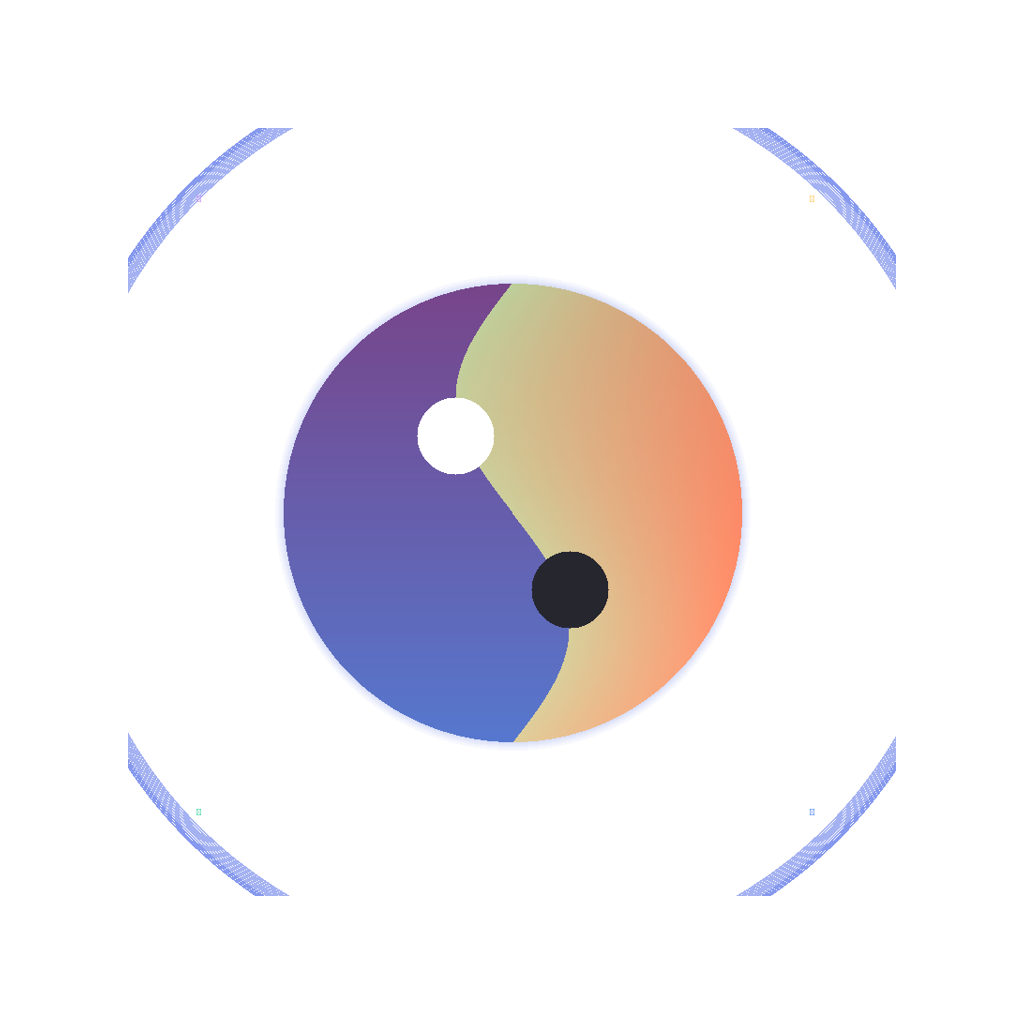
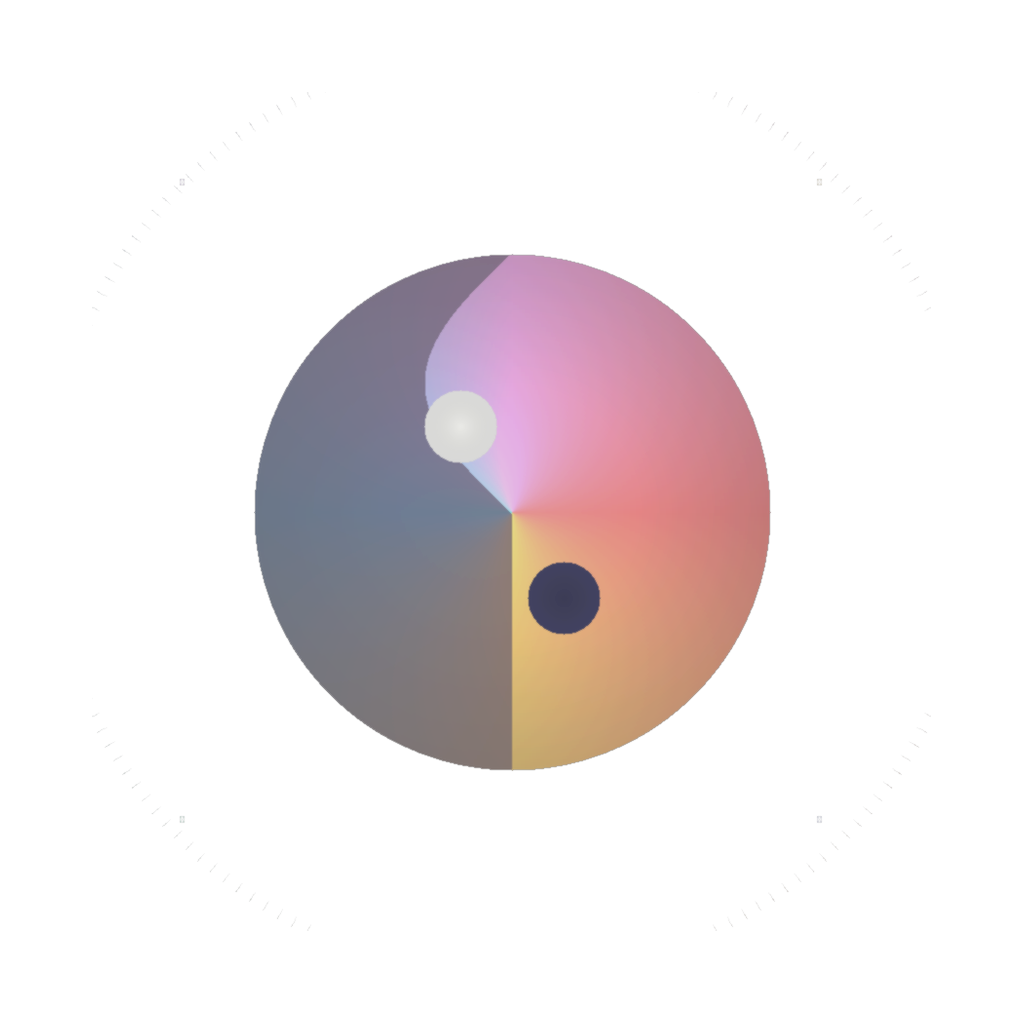
v14: 充值弹窗+配额栏充值按钮+流运全信息+新图标

diff --git a/src/components/PaymentModal.js b/src/components/PaymentModal.js
@@ -1,0 +1,157 @@
+// 充值弹窗 — 套餐选择 + 支付宝支付
+import React, { useState, useEffect } from 'react';
+import { View, Text, TouchableOpacity, Modal, StyleSheet, Platform, Linking } from 'react-native';
+import { colors } from '../theme';
+import { api } from '../api';
+
+const PACKAGES = {
+  count: [
+    { id: 'count_1',  name: '1次包',   price: 1.00,  unit: '次',  quantity: 1    },
+    { id: 'count_30', name: '30次包',  price: 10.00, unit: '次',  quantity: 30   },
+  ],
+  token: [
+    { id: 'token_1m',  name: '100万包',   price: 30.00,  unit: 'Token', quantity: 1000000  },
+    { id: 'token_10m', name: '1000万包',  price: 100.00, unit: 'Token', quantity: 10000000 },
+  ],
+};
+
+export default function PaymentModal({ visible, onClose, onSuccess }) {
+  const [tab, setTab] = useState('count');
+  const [paying, setPaying] = useState(false);
+  const [payUrl, setPayUrl] = useState('');
+
+  async function handlePay(pkgId) {
+    setPaying(true);
+    try {
+      const data = await api.createOrder(pkgId);
+      if (data.payHtml) {
+        // 支付宝返回HTML表单，在APP中需要跳转到浏览器支付
+        // 提取 form action URL
+        const match = data.payHtml.match(/action="([^"]+)"/);
+        if (match) {
+          const url = match[1].replace(/&amp;/g, '&');
+          setPayUrl(url);
+          // 打开系统浏览器进行支付
+          Linking.openURL(url).catch(() => {
+            alert('请手动在浏览器中打开 eszf.com.cn 完成支付');
+          });
+        }
+      }
+      alert('✅ 订单已创建！请在支付宝中完成支付。\n支付成功后返回APP刷新即可看到配额更新。');
+      onSuccess && onSuccess();
+      onClose();
+    } catch (e) {
+      alert('创建订单失败：' + e.message);
+    } finally {
+      setPaying(false);
+    }
+  }
+
+  return (
+    <Modal visible={visible} transparent animationType="slide" onRequestClose={onClose}>
+      <View style={styles.overlay}>
+        <View style={styles.box}>
+          {/* 顶部 */}
+          <View style={styles.header}>
+            <Text style={styles.title}>💰 选择套餐</Text>
+            <TouchableOpacity onPress={onClose}>
+              <Text style={styles.closeBtn}>&times;</Text>
+            </TouchableOpacity>
+          </View>
+
+          {/* Tabs */}
+          <View style={styles.tabs}>
+            <TouchableOpacity
+              style={[styles.tab, tab === 'count' && styles.tabActive]}
+              onPress={() => setTab('count')}
+            >
+              <Text style={[styles.tabText, tab === 'count' && styles.tabTextActive]}>📦 按次</Text>
+            </TouchableOpacity>
+            <TouchableOpacity
+              style={[styles.tab, tab === 'token' && styles.tabActive]}
+              onPress={() => setTab('token')}
+            >
+              <Text style={[styles.tabText, tab === 'token' && styles.tabTextActive]}>⚡ Token</Text>
+            </TouchableOpacity>
+          </View>
+
+          {/* 套餐列表 */}
+          <View style={styles.pkgList}>
+            {PACKAGES[tab].map(pkg => (
+              <TouchableOpacity
+                key={pkg.id}
+                style={styles.pkgCard}
+                onPress={() => handlePay(pkg.id)}
+                disabled={paying}
+              >
+                <View>
+                  <Text style={styles.pkgName}>{pkg.name}</Text>
+                  <Text style={styles.pkgUnit}>{pkg.quantity.toLocaleString()} {pkg.unit}</Text>
+                </View>
+                <View style={styles.pkgRight}>
+                  <Text style={styles.pkgPrice}>¥{pkg.price.toFixed(2)}</Text>
+                  {paying ? (
+                    <Text style={styles.pkgPaying}>处理中...</Text>
+                  ) : (
+                    <Text style={styles.pkgBuy}>购买</Text>
+                  )}
+                </View>
+              </TouchableOpacity>
+            ))}
+          </View>
+
+          {/* 底部 */}
+          <View style={styles.footer}>
+            <TouchableOpacity onPress={onClose}>
+              <Text style={styles.footerLink}>暂不充值，继续免费使用</Text>
+            </TouchableOpacity>
+          </View>
+        </View>
+      </View>
+    </Modal>
+  );
+}
+
+const styles = StyleSheet.create({
+  overlay: {
+    flex: 1, justifyContent: 'flex-end',
+    backgroundColor: 'rgba(0,0,0,0.6)',
+  },
+  box: {
+    backgroundColor: colors.card,
+    borderTopLeftRadius: 20, borderTopRightRadius: 20,
+    paddingBottom: Platform.OS === 'ios' ? 34 : 20,
+    maxHeight: '75%',
+  },
+  header: {
+    flexDirection: 'row', justifyContent: 'space-between', alignItems: 'center',
+    paddingHorizontal: 20, paddingVertical: 16,
+    borderBottomWidth: 1, borderBottomColor: colors.border,
+  },
+  title: { fontSize: 18, fontWeight: '700', color: colors.text },
+  closeBtn: { fontSize: 24, color: colors.textMuted, padding: 4 },
+  tabs: {
+    flexDirection: 'row', marginHorizontal: 20, marginTop: 16,
+    borderRadius: 10, overflow: 'hidden',
+    borderWidth: 1, borderColor: colors.border,
+  },
+  tab: { flex: 1, paddingVertical: 10, alignItems: 'center', backgroundColor: colors.inputBg },
+  tabActive: { backgroundColor: colors.primary + '30' },
+  tabText: { fontSize: 14, color: colors.textDim, fontWeight: '500' },
+  tabTextActive: { color: colors.primary, fontWeight: '700' },
+  pkgList: { paddingHorizontal: 20, paddingTop: 12 },
+  pkgCard: {
+    flexDirection: 'row', justifyContent: 'space-between', alignItems: 'center',
+    backgroundColor: colors.inputBg, borderRadius: 12,
+    padding: 16, marginBottom: 10,
+    borderWidth: 1, borderColor: colors.border,
+  },
+  pkgName: { fontSize: 15, fontWeight: '600', color: colors.text },
+  pkgUnit: { fontSize: 12, color: colors.textDim, marginTop: 2 },
+  pkgRight: { alignItems: 'flex-end' },
+  pkgPrice: { fontSize: 18, fontWeight: '700', color: colors.primary },
+  pkgBuy: { fontSize: 12, color: colors.primary, marginTop: 2, fontWeight: '500' },
+  pkgPaying: { fontSize: 11, color: colors.warning, marginTop: 2 },
+  footer: { alignItems: 'center', paddingVertical: 12, marginTop: 8 },
+  footerLink: { fontSize: 12, color: colors.textDim, textDecorationLine: 'underline' },
+});

diff --git a/src/screens/BaziScreen.js b/src/screens/BaziScreen.js
@@ -13,6 +13,7 @@ import AiResultBlock from '../components/AiResultBlock';
 import LoadingModal from '../components/LoadingModal';
 import DateTimePickerModal from '../components/DateTimePickerModal';
 import CityPickerModal from '../components/CityPickerModal';
+import PaymentModal from '../components/PaymentModal';
 import { PROVINCE_CITIES } from '../data/cityData';
 
 // 快速获取省会/直辖市坐标
@@ -70,6 +71,7 @@ export default function BaziScreen({ navigation }) {
   const [city, setCity] = useState('北京市');
   const [showDatePicker, setShowDatePicker] = useState(false);
   const [showCityPicker, setShowCityPicker] = useState(false);
+  const [showPayment, setShowPayment] = useState(false);
 
   const [loading, setLoading] = useState(false);
   const [loadText, setLoadText] = useState('');
@@ -191,7 +193,7 @@ export default function BaziScreen({ navigation }) {
       setTimeout(() => scrollRef.current?.scrollToEnd({ animated: true }), 300);
     } catch (e) {
       if (e.message === 'quota_exhausted') {
-        alert('😅 免费次数已用完，需要先充值才能继续分析。\n请在电脑上访问 eszf.com.cn 充值。');
+        setShowPayment(true);
       } else {
         alert('AI分析失败：' + e.message);
       }
@@ -226,7 +228,7 @@ export default function BaziScreen({ navigation }) {
       setTimeout(() => scrollRef.current?.scrollToEnd({ animated: true }), 300);
     } catch (e) {
       if (e.message === 'quota_exhausted') {
-        alert('😅 免费次数已用完，需要先充值才能继续分析。\n请在电脑上访问 eszf.com.cn 充值。');
+        setShowPayment(true);
       } else {
         alert('分析失败：' + e.message);
       }
@@ -267,11 +269,10 @@ export default function BaziScreen({ navigation }) {
       }
       setTimeout(() => scrollRef.current?.scrollToEnd({ animated: true }), 300);
     } catch (e) {
-      const msg = e.message;
-      if (msg === 'quota_exhausted') {
-        alert('😅 免费次数已用完，需要先充值才能继续分析。\n请在电脑上访问 eszf.com.cn 充值。');
+      if (e.message === 'quota_exhausted') {
+        setShowPayment(true);
       } else {
-        alert('追问失败：' + msg);
+        alert('追问失败：' + e.message);
       }
     } finally {
       setLoading(false);
@@ -300,11 +301,10 @@ export default function BaziScreen({ navigation }) {
       }
       setTimeout(() => scrollRef.current?.scrollToEnd({ animated: true }), 300);
     } catch (e) {
-      const msg = e.message;
-      if (msg === 'quota_exhausted') {
-        alert('😅 免费次数已用完，需要先充值才能继续分析。\n请在电脑上访问 eszf.com.cn 充值。');
+      if (e.message === 'quota_exhausted') {
+        setShowPayment(true);
       } else {
-        alert('自由问答失败：' + msg);
+        alert('自由问答失败：' + e.message);
       }
     } finally {
       setLoading(false);
@@ -344,9 +344,14 @@ export default function BaziScreen({ navigation }) {
           {/* 配额栏 */}
           {quota && isLoggedIn ? (
             <View style={styles.quotaBar}>
-              <Text style={styles.quotaText}>
-                🎯 免费 {quota.remainingFree || 0}次 · 📦 {quota.paidQuestions || 0}次 · ⚡ {((quota.tokenBalance || 0) / 10000).toFixed(1)}万
-              </Text>
+              <View style={styles.quotaRow}>
+                <Text style={styles.quotaText}>
+                  🎯 免费 {quota.remainingFree || 0}/{quota.dailyFree || 3}次 · 📦 {quota.paidQuestions || 0}次 · ⚡ {((quota.tokenBalance || 0) / 10000).toFixed(1)}万
+                </Text>
+                <TouchableOpacity style={styles.quotaRechargeBtn} onPress={() => setShowPayment(true)}>
+                  <Text style={styles.quotaRechargeText}>💰 充值</Text>
+                </TouchableOpacity>
+              </View>
             </View>
           ) : null}
 
@@ -484,9 +489,19 @@ export default function BaziScreen({ navigation }) {
                     <Text style={styles.flowLocalTitle}>📅 今日流运信息</Text>
                     <Text style={styles.flowLocalDate}>{new Date().toLocaleDateString('zh-CN', { year: 'numeric', month: 'long', day: 'numeric', weekday: 'long' })}</Text>
                     <View style={styles.flowLocalBody}>
+                      {/* 本命四柱 */}
                       <Text style={styles.flowLine}>本命：{baziData.yearPillar?.ganZhi || '--'} {baziData.monthPillar?.ganZhi || '--'} {baziData.dayPillar?.ganZhi || '--'} {baziData.hourPillar?.ganZhi || '--'}</Text>
+                      {/* 日主五行 */}
                       {baziData.wxStats?.dayWx ? (
-                        <Text style={styles.flowLine}>日主{baziData.wxStats.dayWx}{baziData.wxStats.isStrong ? '偏旺' : '偏弱'} · 喜{baziData.wxStats.maxWx || '?'} 忌{baziData.wxStats.minWx || '?'}</Text>
+                        <Text style={styles.flowLine}>日主：{baziData.wxStats.dayWx}{baziData.wxStats.isStrong ? '偏旺' : '偏弱'} · 喜{baziData.wxStats.maxWx || '?'} 忌{baziData.wxStats.minWx || '?'}</Text>
+                      ) : null}
+                      {/* 十神布局 */}
+                      {baziData.shiShen ? (
+                        <Text style={styles.flowLine}>十神：年{baziData.shiShen.year || '?'} 月{baziData.shiShen.month || '?'} 日{baziData.shiShen.day || '?'} 时{baziData.shiShen.hour || '?'}</Text>
+                      ) : null}
+                      {/* 大运信息 */}
+                      {baziData.currentDaYun && baziData.currentDaYun.length > 0 ? (
+                        <Text style={styles.flowLine}>大运：{baziData.currentDaYun.map(d => d.yunGanZhi).join(' → ')}</Text>
                       ) : null}
                     </View>
                   </View>
@@ -620,6 +635,15 @@ export default function BaziScreen({ navigation }) {
         initialProvince={province}
         initialCity={city}
       />
+      <PaymentModal
+        visible={showPayment}
+        onClose={() => setShowPayment(false)}
+        onSuccess={() => {
+          if (isLoggedIn && baziData) {
+            api.getQuota(getBaziId(baziData)).then(q => setQuota(q)).catch(() => {});
+          }
+        }}
+      />
     </>
   );
 }
@@ -631,7 +655,10 @@ const styles = StyleSheet.create({
   headerCompact: { paddingVertical: 1, marginBottom: 2 },
   headerTagline: { fontSize: 11, color: colors.textMuted, textAlign: 'center' },
   quotaBar: { backgroundColor: colors.card, borderRadius: 8, padding: 6, marginBottom: 8, borderWidth: 1, borderColor: colors.border },
-  quotaText: { fontSize: 11, color: colors.textDim, textAlign: 'center' },
+  quotaText: { fontSize: 11, color: colors.textDim, textAlign: 'center', flex: 1 },
+  quotaRow: { flexDirection: 'row', alignItems: 'center' },
+  quotaRechargeBtn: { backgroundColor: colors.primary, borderRadius: 6, paddingHorizontal: 10, paddingVertical: 3, marginLeft: 6 },
+  quotaRechargeText: { color: '#fff', fontSize: 11, fontWeight: '600' },
   form: { backgroundColor: colors.card, borderRadius: 12, padding: 10, borderWidth: 1, borderColor: colors.border, marginBottom: 8 },
   formRow: { flexDirection: 'row', columnGap: 6 },
   formHalf: { flex: 1 },

diff --git a/src/api.js b/src/api.js
@@ -65,4 +65,11 @@ export const api = {
   // 配额
   getQuota: (baziId) =>
     request('GET', `/interact/quota?baziId=${encodeURIComponent(baziId || '')}`, null, true),
+
+  // 充值
+  createOrder: (packageId) =>
+    request('POST', '/alipay/create-order', { packageId }, true),
+
+  getPackages: () =>
+    request('GET', '/interact/packages'),
 };